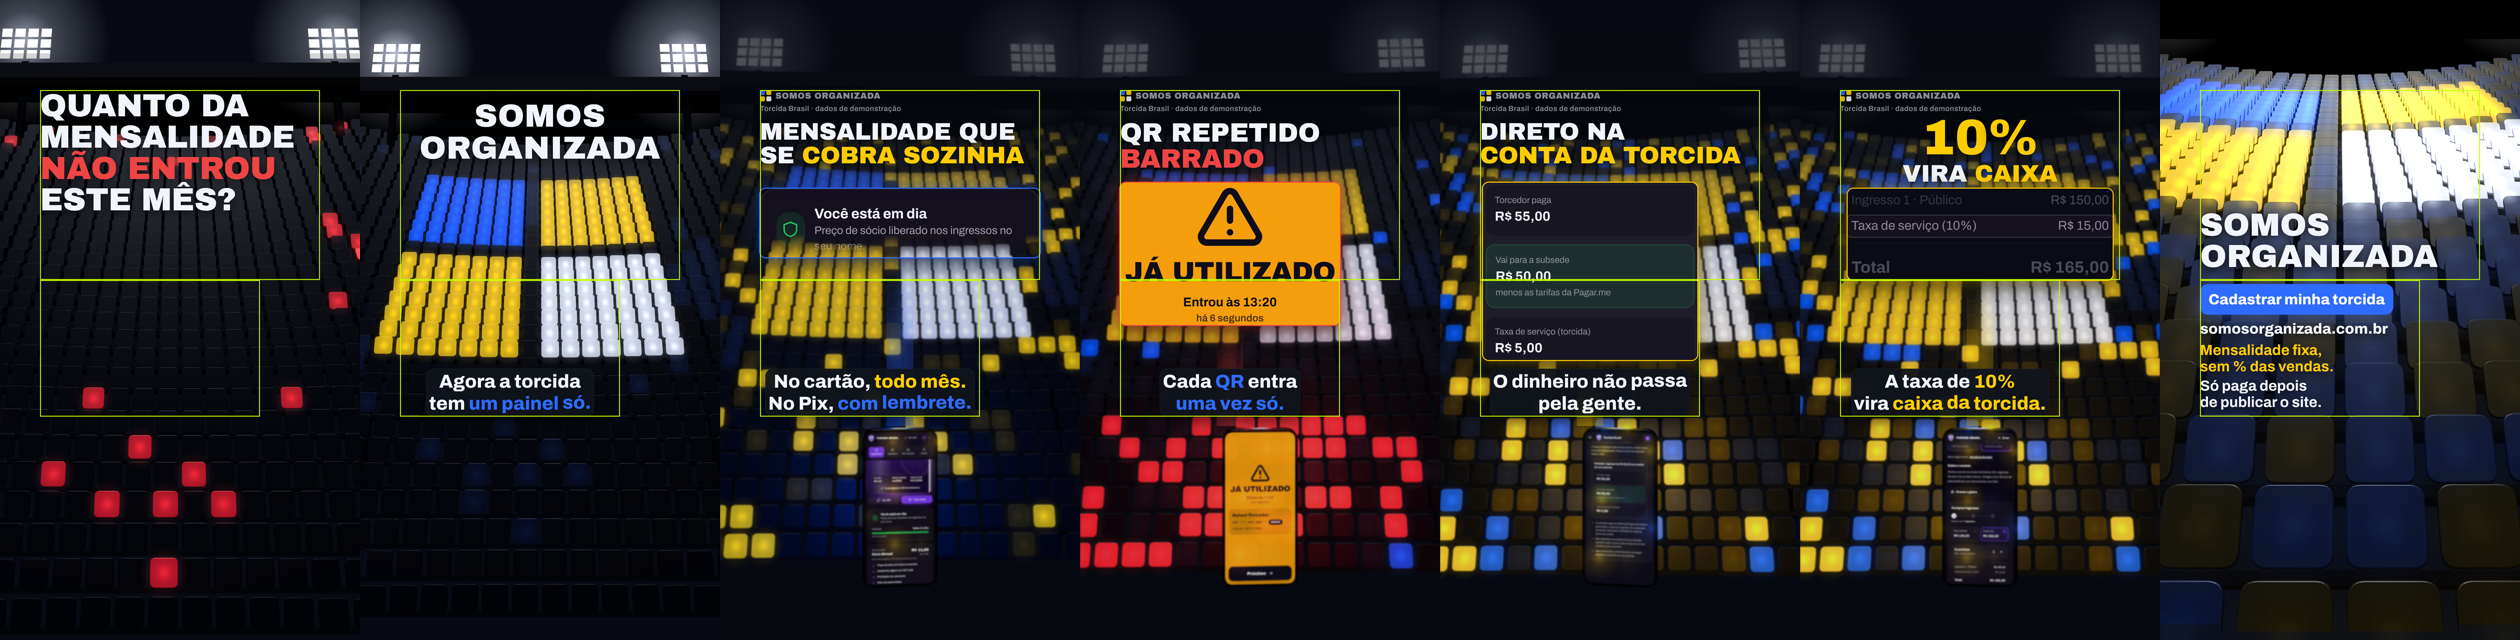
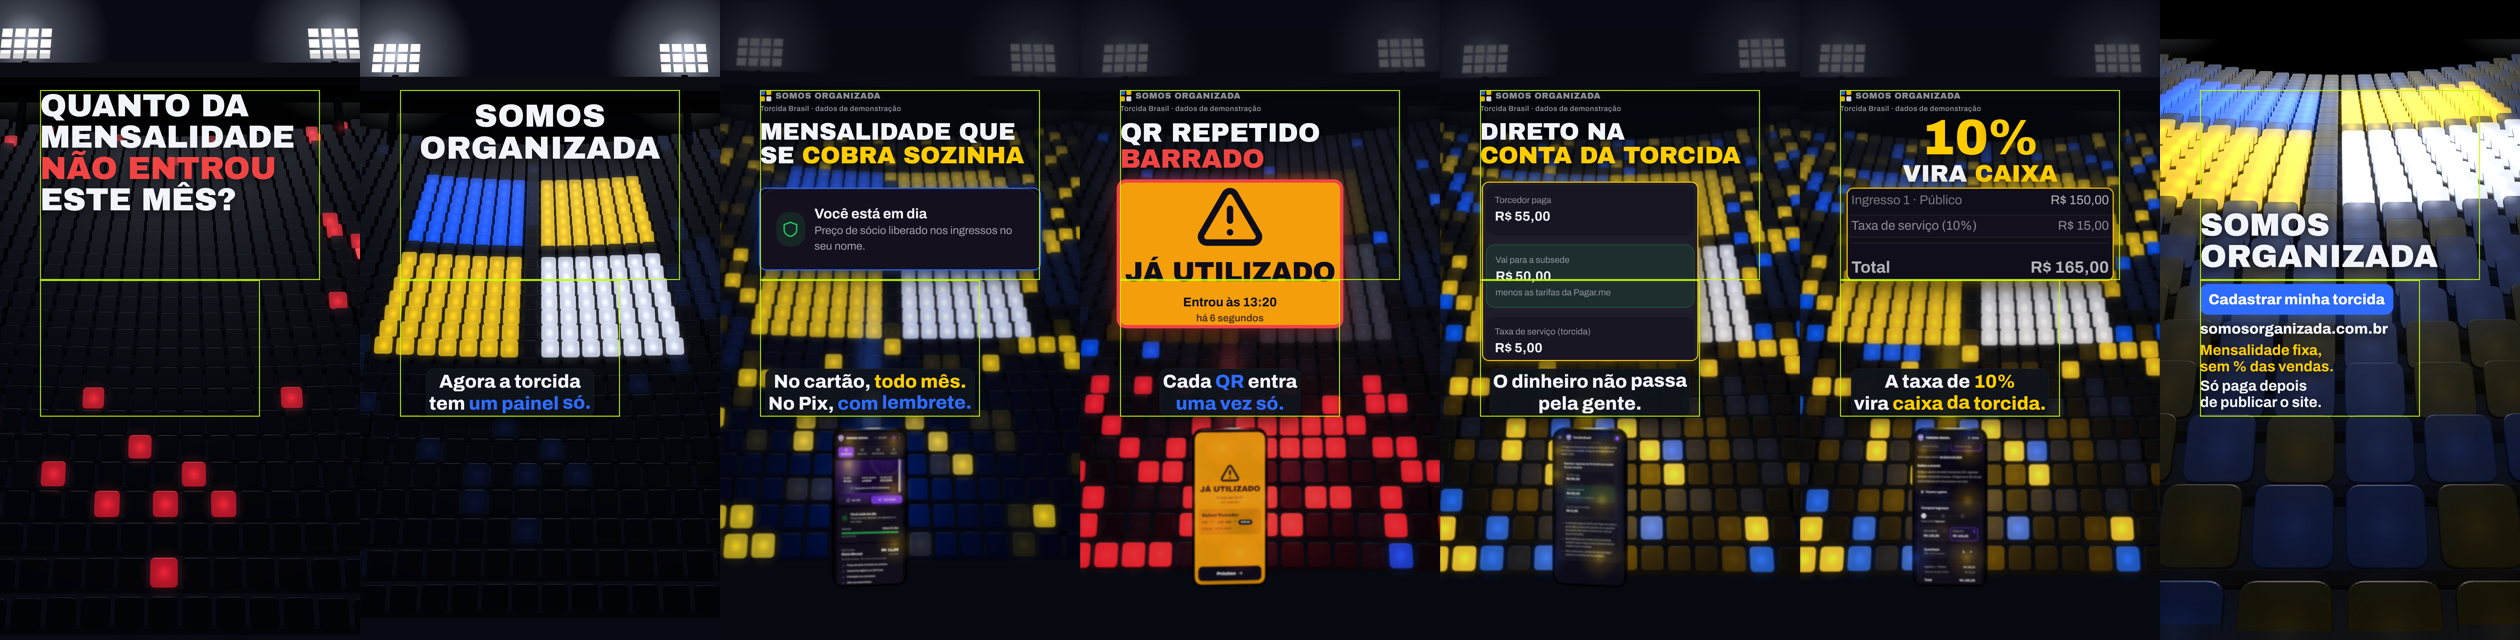
Estúdio: aplica as condições do portão visual (rodada 2) e grava os pareceres
A motion-review derrubou o veto e aprovou com condições; a torcida-review aprovou com condição.
Aplicadas as que mudam o quadro: no barrado a grade da marca também cede (30%) e o recorte ganha
anel vermelho, para o bloqueio não se ler como âmbar; celular no eixo da legenda (x 450) com o
feixe macio subindo por ele; cartão do sócio inteiro e opaco; foco da taxa mais longo e mais leve
para Ingresso e Total continuarem legíveis.

Claude-Session: https://claude.ai/code/session_01XU7YXPjuXVT8Ej7fXicwjH

diff --git a/studio/src/composicoes/apresentacao/ProvaCard.tsx b/studio/src/composicoes/apresentacao/ProvaCard.tsx
@@ -14,6 +14,8 @@ export const ANDAR = {
 };
 /** Topo do celular na arquibancada (px): de onde sai o feixe. */
 export const TOPO_CELULAR = 1278;
+/** Eixo do celular (px): o feixe sobe por ele. */
+export const EIXO_CELULAR = 450;
 
 /**
  * A prova sobe da tela do celular: o recorte EXATO da captura real, num andar fixo, com recorte de luz na cor da cena
@@ -42,11 +44,13 @@ export const ProvaCard: React.FC<{prova: Prova; cor: string; entrada?: number; s
       <div
         style={{
           position: 'absolute',
-          left: left + w / 2 - 40 * k,
+          left: (EIXO_CELULAR - 40) * k,
           top: feixeTopo,
           width: 80 * k,
           height: Math.max(0, TOPO_CELULAR * k - feixeTopo),
           opacity: 0.55 * p * (1 - sai),
+          filter: `blur(${12 * k}px)`,
+          mixBlendMode: 'screen',
           backgroundColor: 'rgba(0,0,0,0)',
           backgroundImage: `linear-gradient(to bottom, ${hexComAlfa(cor, 0.0)} 0%, ${hexComAlfa(cor, 0.35)} 45%, ${hexComAlfa(cor, 0.6)} 100%), radial-gradient(ellipse 50% 100% at 50% 100%, ${hexComAlfa(cor, 0.5)}, ${hexComAlfa(cor, 0)})`,
         }}
@@ -62,7 +66,7 @@ export const ProvaCard: React.FC<{prova: Prova; cor: string; entrada?: number; s
           transform: `translateY(${(1 - p) * 70 * k}px) perspective(${1800 * k}px) rotateX(${sai * 80}deg)`,
           transformOrigin: '50% 0%',
           borderRadius: raio,
-          boxShadow: `0 0 0 ${3 * k}px ${cor}, 0 0 ${46 * k}px ${hexComAlfa(cor, 0.45)}, 0 ${24 * k}px ${60 * k}px rgba(0,0,0,0.7)`,
+          boxShadow: `0 0 0 ${(prova.anel ?? 3) * k}px ${cor}, 0 0 ${(prova.anel ? 56 : 46) * k}px ${hexComAlfa(cor, prova.anel ? 0.75 : 0.45)}, 0 ${24 * k}px ${60 * k}px rgba(0,0,0,0.7)`,
         }}
       >
         <RecorteApp
@@ -77,7 +81,7 @@ export const ProvaCard: React.FC<{prova: Prova; cor: string; entrada?: number; s
         {d && (
           // o escurecimento do foco fica DENTRO do cartão (sem vazar sobre a frase e o placar)
           <div style={{position: 'absolute', inset: 0, overflow: 'hidden', borderRadius: raio}}>
-            <Foco x={0} y={d.y * s} w={w} h={d.h * s} raio={12 * k} intensidade={focoP} margem={6 * k} />
+            <Foco x={0} y={d.y * s} w={w} h={d.h * s} raio={12 * k} intensidade={focoP * (d.forca ?? 1)} margem={6 * k} />
           </div>
         )}
       </div>

diff --git a/studio/src/composicoes/apresentacao/provas.ts b/studio/src/composicoes/apresentacao/provas.ts
@@ -13,16 +13,18 @@ export type Prova = {
   /** teto de escala (ex.: LIBERADO: tela toda verde do produto fica contida) */
   escalaMax?: number;
   /** linha a destacar (y relativo à região, em px da captura) com foco arredondado */
-  destaque?: {y: number; h: number; de: number; ate: number};
+  destaque?: {y: number; h: number; de: number; ate: number; forca?: number};
+  /** anel sólido de luz em volta do recorte, em px (barrado: o bloqueio domina pela luz vermelha) */
+  anel?: number;
 };
 
 export const PROVAS = {
-  socio: {tela: 'carteirinha-em-dia.png', regiao: {x: 48, y: 1266, w: 1074, h: 264}, degradeBase: true, andar: 'alto'}, // cartão na largura toda: a frase não corta no meio
+  socio: {tela: 'carteirinha-em-dia.png', regiao: {x: 48, y: 1266, w: 1074, h: 310}, andar: 'alto'}, // cartão na largura toda: a frase não corta no meio
   ingresso: {tela: 'ingresso-qr.png', regiao: {x: 72, y: 1797, w: 640, h: 369}, degradeDireita: true, andar: 'baixo'},
   liberado: {tela: 'portaria-liberado-rafael.png', regiao: {x: 60, y: 560, w: 1050, h: 990}, andar: 'baixo', escalaMax: 0.42},
-  barrado: {tela: 'portaria-ja-utilizado-rafael.png', regiao: {x: 60, y: 520, w: 1050, h: 680}, andar: 'baixo'},
+  barrado: {tela: 'portaria-ja-utilizado-rafael.png', regiao: {x: 60, y: 520, w: 1050, h: 680}, andar: 'baixo', anel: 10},
   dinheiro: {tela: 'recebimentos-2.png', regiao: {x: 150, y: 650, w: 870, h: 720}, andar: 'baixo'},
-  taxa: {tela: 'compra-1.png', regiao: {x: 150, y: 2208, w: 870, h: 300}, andar: 'alto', destaque: {y: 92, h: 62, de: 24, ate: 78}}, // linhas medidas em pixel: Ingresso 2229, Taxa 2312–2350, Total 2445–2485
+  taxa: {tela: 'compra-1.png', regiao: {x: 150, y: 2208, w: 870, h: 300}, andar: 'alto', destaque: {y: 92, h: 62, de: 24, ate: 100, forca: 0.4}}, // linhas medidas em pixel: Ingresso 2229, Taxa 2312–2350, Total 2445–2485
   evento: {tela: 'evento.png', regiao: {x: 40, y: 1398, w: 1090, h: 324}, andar: 'alto'},
   planilha: {tela: 'financeiro-planilha.png', regiao: {x: 48, y: 1190, w: 1074, h: 460}, degradeBase: true, andar: 'alto'},
 } satisfies Record<string, Prova>;

diff --git a/studio/src/composicoes/apresentacao/mosaico.ts b/studio/src/composicoes/apresentacao/mosaico.ts
@@ -18,6 +18,14 @@ const CENTROS_PROBLEMA: [number, number][] = [
   [17, 22],
 ];
 
+/** Mistura a cor com o escuro da arquibancada: `fator` = quanto da cor sobra (0,3 = 30%). */
+function rebaixar(hex: string, fator: number): string {
+  const n = parseInt(hex.slice(1), 16);
+  const fundo = [0x0b, 0x0e, 0x16];
+  const canal = (i: number) => Math.round(((n >> (16 - 8 * i)) & 255) * fator + fundo[i] * (1 - fator));
+  return '#' + [0, 1, 2].map((i) => canal(i).toString(16).padStart(2, '0')).join('').toUpperCase();
+}
+
 /** A placa que FALTA na grade da marca desde a virada: só acende no toque do CTA (é a torcida de quem assiste). */
 export const PLACA_QUE_FALTA = (() => {
   // canto interno do quadrado branco (embaixo, à direita), bem visível
@@ -70,8 +78,13 @@ export function linhaDoTempoPlaca(c: number, l: number): EstadoPlaca[] {
 
   // QR BARRADO (612–684): perto da base, placas em vermelho (degrau, sem piscar); o resto rebaixa (≤ 30%);
   // em 690 tudo volta ao que era
+  if (grade) {
+    // a grade da marca também cede o quadro ao bloqueio (≤ 30%) e volta em 688
+    estados.push({cor: rebaixar(grade, 0.3), de: 612 + v * 8, virada: 6});
+    estados.push({cor: grade, de: 688 + v * 10, virada: 6});
+  }
   if (!grade) {
-    const perto = v < 0.2 && Math.abs(u - 0.5) < 0.18;
+    const perto = v < 0.27 && Math.abs(u - 0.5) < 0.2;
     const antes = [...estados].reverse().find((e) => e.de < 612);
     if (perto && r2 < 0.45) estados.push({cor: COR.perigo, de: 612 + Math.abs(u - 0.5) * 20 + v * 10, virada: 4});
     else if (antes && antes.cor !== APAGADA_AZUL) estados.push({cor: '#1A1E2A', de: 612 + v * 8, virada: 6});

diff --git a/studio/src/composicoes/apresentacao/Fundo.tsx b/studio/src/composicoes/apresentacao/Fundo.tsx
@@ -33,7 +33,7 @@ export function celularNoFrame(frame: number): CelularNaArquibancada | null {
   const dur = CENAS[cena].ate - CENAS[cena].de;
   const plano = [...planos].reverse().find((p) => local >= p.de)!;
   const entrada = interpolate(local, [0, 10], [0, 1], {extrapolateRight: 'clamp', easing: ENTRADA}) * interpolate(local, [dur - 8, dur], [1, 0], {extrapolateLeft: 'clamp'});
-  return {tela: plano.tela, cor: plano.cor, x: 540, y: 1520, alturaPx: 470, profundidade: 7, giro: interpolate(local, [0, dur], [-0.18, 0.12]), entrada};
+  return {tela: plano.tela, cor: plano.cor, x: 450 /* eixo da legenda e do feixe */, y: 1520, alturaPx: 470, profundidade: 7, giro: interpolate(local, [0, dur], [-0.18, 0.12]), entrada};
 }
 
 export const FundoArquibancada: React.FC = () => {
